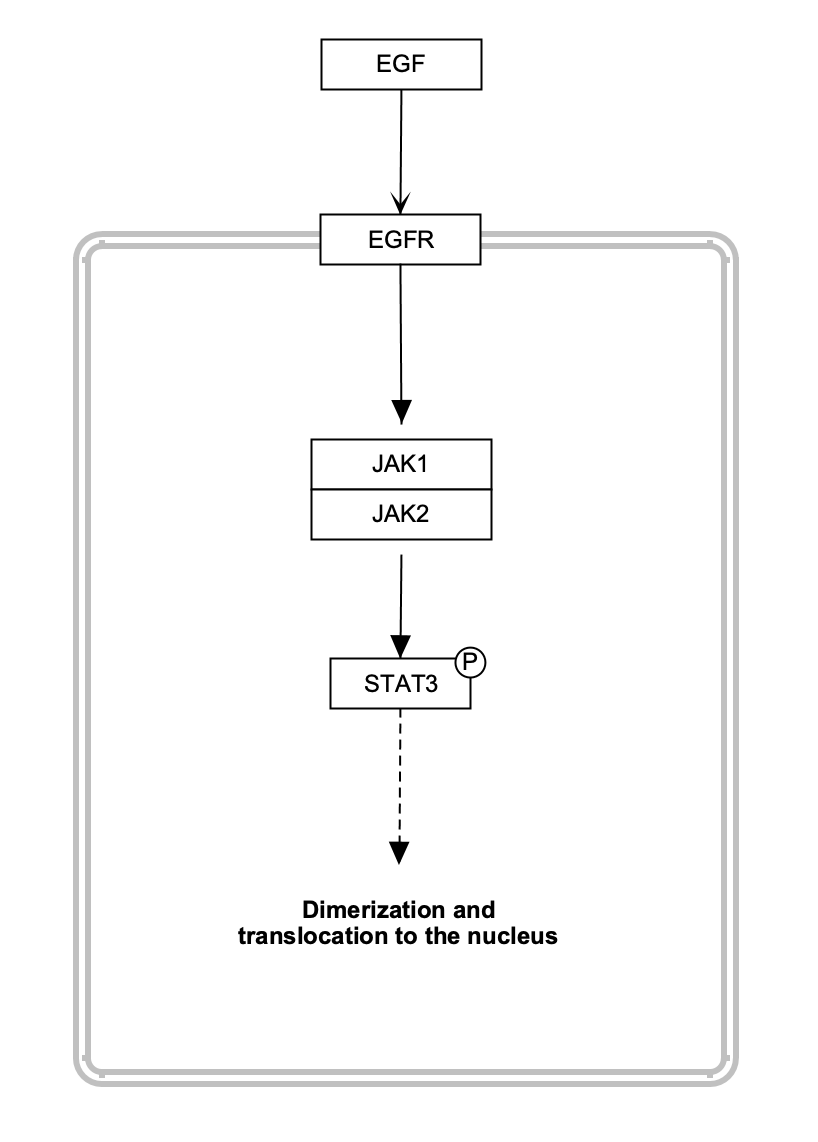
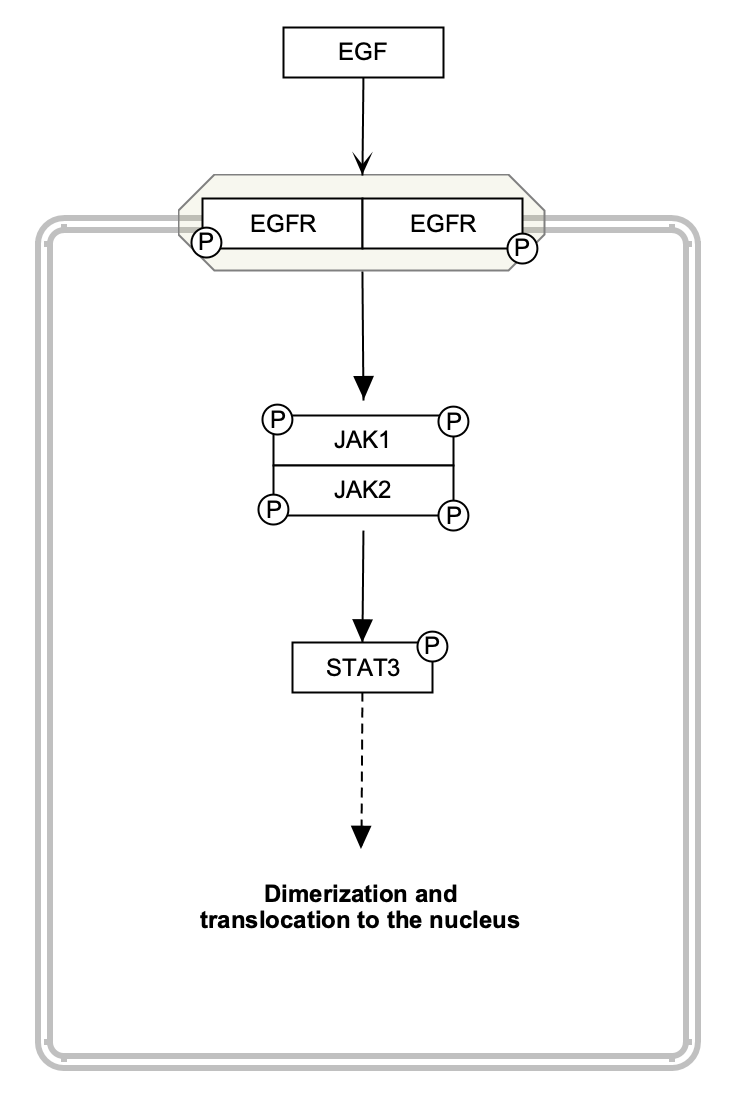
updated example with additional phospho sites

Changed region(s): [[0.0307, 0.0306, 0.9507, 0.9802]]

diff --git a/stages/draw-protein-phosphorylation/index.html b/stages/draw-protein-phosphorylation/index.html
@@ -45,7 +45,7 @@
             amino acid residues, but also other post-translational modifications. In addition to indicating that a protein is phosphorylated, we have developed a method for 
             adding specific site information to states on nodes in a way that is amenable to data mapping in tools like <a href="https://cytoscape.org/" target="_blank">Cytoscape</a>. The information is added as a <b>structured comment</b>.</p>
             <p>
-            The process of protein phosphorylation by a kinase can be depicted in different ways, with varying degrees of detail. In this example, a serine residue of the STAT3 protein is phosphorylated by JAK kinases, which activates the protein.
+            The process of protein phosphorylation by a kinase can be depicted in different ways, with varying degrees of detail. The below example includes several steps of regulation by phosphorylation; we will focus on the phosphorylation of STAT3. A tyrosine residue of the STAT3 protein is phosphorylated by JAK kinases, which activates the protein.
             The below figure shows two styles of modeling this phosphorylation event, with the left side showing a commonly used "condensed" style, and the right side showing an expanded style. The condensed style uses an arrow interaction directly from the JAK group to the STAT3 protein to indicate the activation caused by the phosphorylation, and the phosphorylation is indicated by the State added to the STAT3 node. The expanded style shows the phosphorylation by the JAK kinases as a mim-catalysis interaction acting on a mim-conversion interaction between the unphosphorylated and phosphorylated STAT3 nodes.<br />
             Which one of these two styles to use is up to the pathway author, and depends on other aspects of the pathway, for example the overall scope/focus, layout considerations and the overall size of the pathway. If the phosphorylation event is the main point of the pathway, the expanded style could be used. If the pathway includes a central phosphorylation cascade with many subsequent phosphorylations, the condensed style makes more sense. In the exercise below, we will be using the condensed style.
             </p>
